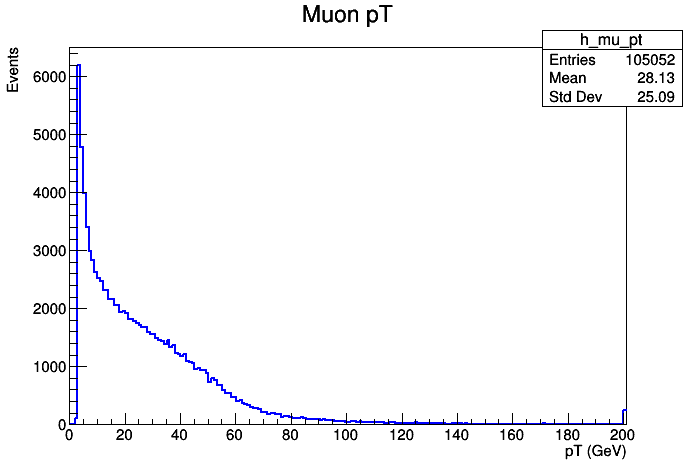
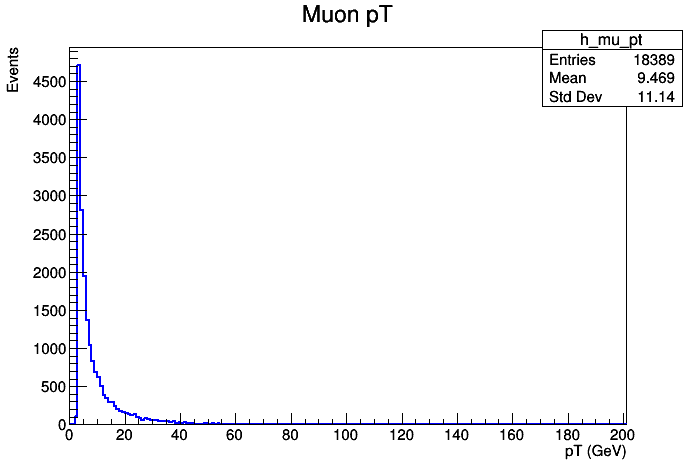
Fixed identification of good muons and extended cuts to muon plots

diff --git a/snek.py b/snek.py
@@ -9,7 +9,7 @@ import sys
 
 ## User-defined constants
 MAX_EVT = 0
-#MAX_EVT = 5000  ## Maximum number of events to process
+#MAX_EVT = 10000  ## Maximum number of events to process
 PRT_EVT = 1000   ## Print to screen every Nth event
 VERBOSE = False  ## Print extra info about each event
 F_PREFIX = True  ## Attach a prefix that denotes which file the plots came from. Only uses the 1st file.
@@ -165,6 +165,20 @@ def main(batch=0):
                 mu_eta = ch.Muon_eta[iMu]
                 mu_phi = ch.Muon_phi[iMu]
 
+                badMu = False
+                ## Check if the muon is a match for any GEN muons from W, Z, or A decays
+                for i in range(len(muEta)):
+                    ## Check all our W, Z and A candidates to see if our muon matches one
+                    if (abs(mu_eta - muEta[i]) < 0.1
+                        ) and (abs(mu_pt - muPt[i]) < muPt[i]*.2
+                        ) and ((abs(mu_phi - muPhi[i]) < 0.1) or (abs(mu_phi - muPhi[i]) > 6.23)):
+                        badMu = True        ## This muon comes from something we're not interested in
+                        break
+                
+                if badMu: continue          ## Skip to the next muon that might actually be of interest
+
+                goodMu.append(iMu)          ## This muon might come from a A->bb decay. Save it
+
                 if VERBOSE: print '  * Muon_pt[%d] = %.2f GeV' % (iMu, mu_pt)
 
                 ## Fill the histograms
@@ -172,17 +186,7 @@ def main(batch=0):
     
                 ## Fill only muons with |eta| < 1.5
                 if abs(ch.Muon_eta[iMu]) < 1.5:
-                    plots["h_mu_pt_eta"].cfill(mu_pt)
-                
-                ## Check if the muon is a match for any GEN muons from W, Z, or A decays
-                for i in range(len(muEta)):
-                    ## Check all our W, Z and A candidates to see if our muon matches one
-                    if (abs(mu_eta - muEta[i]) < 0.1
-                        ) and (abs(mu_pt - muPt[i]) < muPt[i]*.2
-                        ) and ((abs(mu_phi - muPhi[i]) < 0.1) or (abs(mu_phi - muPhi[i] > 6.23))):
-                        continue            ## This muon comes from something we're not interested in
-                    else:
-                       goodMu.append(iMu)   ## This muon could have come from an A->bb decay. We'll save it
+                    plots["h_mu_pt_eta"].cfill(mu_pt)                
 
             if len(goodMu) > 0:             ## We have useful muons in this event
                 plots["h_cutflow"].cfill(1) 
